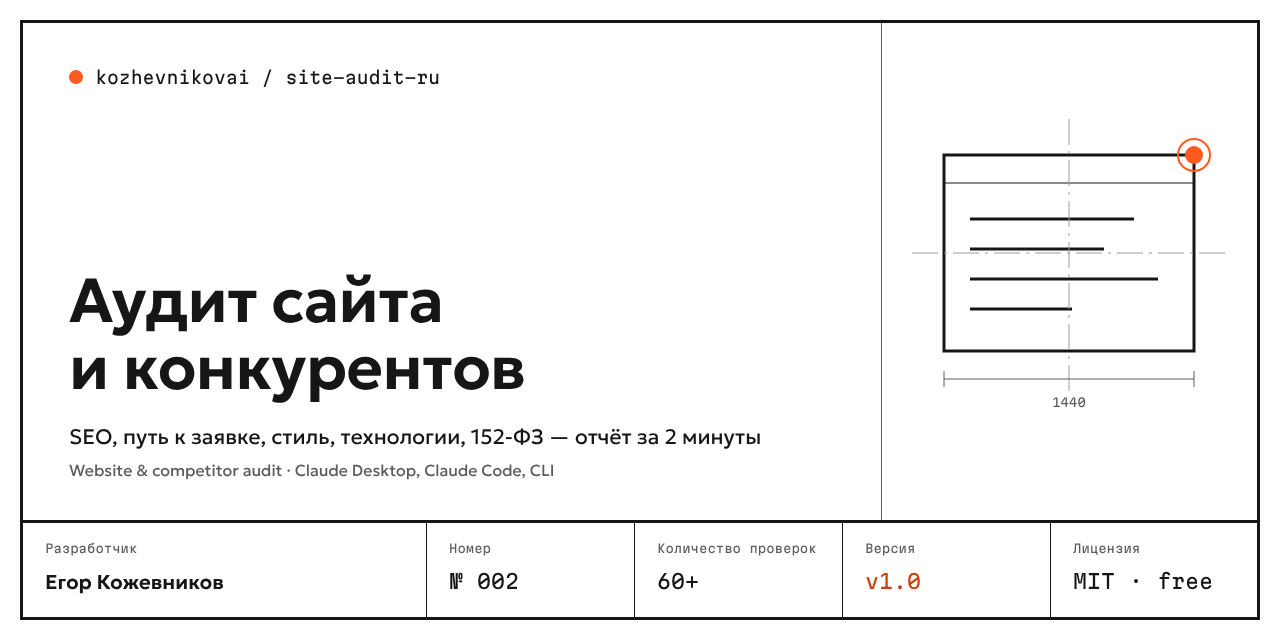
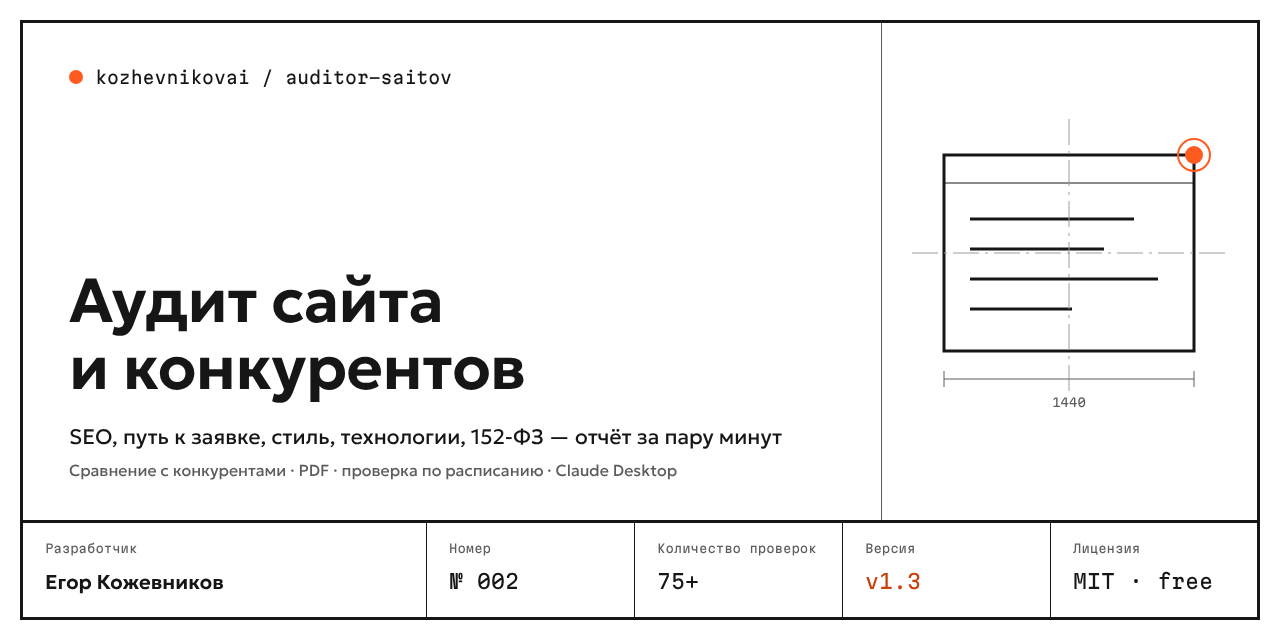
docs: README по единому шаблону, настоящий отчёт в GIF и на снимках, обложка 1.3

diff --git a/README.md b/README.md
@@ -11,24 +11,35 @@
 
 # Аудитор сайтов — аудит сайта и конкурентов
 
-Команда и пакет называются `site-audit-ru` — прежнее название продукта.
+Команда и npm-пакет называются `site-audit-ru`.
 
-Дайте адрес своего сайта и 2–4 конкурентов. Через пару минут получите отчёт: что мешает сайту приносить заявки, где конкуренты сильнее, что нарушает законы РФ и что исправить в первую очередь.
+Дайте адрес своего сайта и 2–4 конкурентов. Через пару минут придёт отчёт: что мешает сайту приносить заявки, где конкуренты сильнее, что нарушает законы РФ и что исправить в первую очередь.
 
-**Пять блоков, 75+ проверок:** SEO и скорость · структура и путь к заявке · визуальный стиль · технологии и маркетинговые сервисы · соответствие законам РФ (152-ФЗ, cookie, реквизиты, маркировка рекламы).
+<p align="center"><img src="docs/img/demo.gif" alt="Отчёт: главное, сравнение с конкурентами, подробные находки, фильтр «Только проблемы»" width="100%"></p>
 
-<p align="center"><img src="docs/img/demo.gif" alt="Запуск проверки и отчёт" width="100%"></p>
+<sub>Настоящий отчёт по трём реальным сайтам доставки цветов. Домены, названия и телефоны мы замылили.</sub>
 
-## Почему этим стоит пользоваться
+## Установка за 3 шага
+
+Нужен любой из браузеров: Google Chrome, Microsoft Edge (есть в каждой Windows), Яндекс Браузер или Chromium.
+
+1. Скачайте **`site-audit-ru.mcpb`** со страницы [последнего релиза](https://github.com/kozhevnikovai/auditor-saitov/releases/latest).
+2. Откройте файл двойным щелчком: Claude Desktop предложит установить расширение.
+3. Напишите в чате: *«Сравни мой сайт example.ru с конкурентами a.ru и b.ru и составь план на две недели»*.
+
+Claude проверит сайты, разберёт результаты как пять экспертов (SEO, UX, дизайн, техника, юрист) и даст заключение. Отчёты сохранятся в папку `site-audit` в домашней папке.
+
+## Возможности
 
 - **Сравнение с конкурентами, а не просто чек-лист.** Радар по пяти блокам, место среди сайтов и список «где конкуренты сильнее»: у них такая-то проверка в норме, а у вас — нет.
 - **Законы РФ.** Политика ПДн, согласие у каждой формы, отдельный документ согласия (с 01.09.2025), галочки по умолчанию, cookie до согласия, зарубежные сервисы (Google Fonts, GA, reCAPTCHA, YouTube), ИНН и ОГРН, erid. Обычные SEO-сервисы этого не проверяют.
 - **Сайт глазами Яндекса и посетителя.** Метрика, sitemap, микроразметка, LCP/CLS/TTFB, кнопка действия на первом экране, длина форм, кликабельный телефон, мессенджеры.
 - **Стиль конкурента в цифрах.** Палитра в HEX, шрифты, шкала размеров, контраст текста, скриншоты для компьютера и телефона.
 - **Цифры воспроизводимы.** Данные собирает детерминированный код, а не ИИ. ИИ только объясняет их и составляет план, если вы этого хотите.
+- **Новое в 1.3.** Скорость у реальных посетителей из CrUX (по вашему бесплатному ключу Google), отчёт в PDF, проверка по расписанию на вашем компьютере, выгрузка в Google Таблицу без OAuth.
 - **Локально и бесплатно.** Проверка идёт в вашем браузере (Chrome, Edge или Яндекс Браузер). Данные никуда не отправляются, отчёт сам не грузит внешние ресурсы.
 
-## Отчёт
+### Отчёт
 
 HTML-отчёт открывается в любом браузере. Его можно отправить клиенту одним файлом, распечатать или сохранить в PDF.
 
@@ -40,7 +51,7 @@ HTML-отчёт открывается в любом браузере. Его м
 - **Подробно.** Все находки по блокам с цветовыми статусами, адресами страниц и палитрой сайта.
 - **Кнопки:** «Только проблемы», «Скачать HTML», «Печать / PDF».
 
-<p align="center"><img src="docs/img/report-details.jpg" alt="Подробные находки" width="100%"></p>
+<p align="center"><img src="docs/img/report-open.jpg" alt="Подробные находки с советами" width="49%"> <img src="docs/img/report-issues.jpg" alt="Фильтр «Только проблемы»" width="49%"></p>
 
 Рядом с HTML сохраняются:
 
@@ -54,19 +65,9 @@ HTML-отчёт открывается в любом браузере. Его м
 | `report.pdf` | PDF для клиента или руководителя (`--format pdf`, печатает ваш браузер, без интернета) |
 | `audit.json` | Все данные: для повторных отчётов, сравнения во времени и интеграций |
 
-## Установка
+## Другие способы установки
 
-Нужен установленный браузер: Google Chrome, Microsoft Edge (есть в каждой Windows), Яндекс Браузер или Chromium.
-
-### 1. Claude Desktop — проще всего, без терминала
-
-1. Скачайте **`site-audit-ru.mcpb`** со страницы [последнего релиза](https://github.com/kozhevnikovai/auditor-saitov/releases/latest).
-2. Откройте файл двойным щелчком. Claude Desktop предложит установить расширение.
-3. Напишите в чате: *«Сравни мой сайт example.ru с конкурентами a.ru и b.ru и составь план на две недели»*.
-
-Claude проверит сайты, прочитает результаты как пять экспертов (SEO, UX, дизайн, техника, юрист) и даст заключение. Отчёты сохранятся в папку `site-audit` в вашей домашней папке.
-
-### 2. Claude Code — плагин с командой `/site-audit`
+### Claude Code — плагин с командой `/site-audit`
 
 ```text
 /plugin marketplace add kozhevnikovai/auditor-saitov
@@ -76,7 +77,7 @@ Claude проверит сайты, прочитает результаты ка
 
 Плагин запускает проверку и пять подагентов-экспертов параллельно, а затем собирает общее заключение.
 
-### 3. Командная строка — для регулярных проверок и автоматизации
+### Командная строка — для регулярных проверок и автоматизации
 
 Нужен Node.js 20 или новее.
 
@@ -206,7 +207,19 @@ HTTPS, robots.txt и sitemap (включая индекс sitemap), title и des
 > Это автоматические сигналы, а не юридическое заключение. Перед изменениями сверьтесь с юристом.
 </details>
 
-## Как это работает и этика обхода
+## Вопросы
+
+**Сколько длится проверка?** Около 2–5 минут на три сайта по 12 страниц. Зависит от скорости сайтов и вашего интернета.
+
+**Нужен ли ключ ИИ?** Нет. Все проверки делает код. Ключ нужен только для заключения ИИ в командной строке (`--ai`) и для данных CrUX. В Claude Desktop и Claude Code заключение пишет сам Claude.
+
+**Почему у конкурента нет оценки?** Сайт закрыт защитой от ботов (Qrator, DDoS-Guard и подобные). Мы не обходим защиту и честно помечаем: «проверка неполная».
+
+**Можно ли проверять чужие сайты?** Да, проверка видит только то, что видит любой посетитель. Robots.txt соблюдается, обходится не больше 30 страниц.
+
+**Это юридическое заключение?** Нет. Раздел «Законы РФ» показывает автоматические сигналы. Перед изменениями сверьтесь с юристом.
+
+## Безопасность и этика
 
 - Сборщик открывает страницы в headless-режиме вашего браузера через Playwright, ждёт, пока страница перестанет перезагружаться (JS-проверки), прокручивает главную, чтобы догрузились ленивые скрипты.
 - Соблюдает `robots.txt`, обходит не больше 30 страниц, пропускает служебные разделы (вход, корзина, кабинет, поиск, фильтры), представляется в User-Agent как `site-audit-ru` со ссылкой на проект.
@@ -256,7 +269,7 @@ node dist/cli.js test-site.ru --open
 
 - [Протоколист](https://github.com/kozhevnikovai/protokolist) — запись встречи → протокол, локально
 - [Тендерный помощник](https://github.com/kozhevnikovai/tender-pomoshnik) — разбор госзакупок 44-ФЗ и 223-ФЗ с цитатами
-- [Бизнес-навыки](https://github.com/kozhevnikovai/biznes-navyki) — 10 навыков для Claude: КП, отзывы, вакансии, регламенты
+- [Бизнес-навыки](https://github.com/kozhevnikovai/biznes-navyki) — 12 навыков для Claude: КП, отзывы, претензии, вакансии, регламенты
 
 Об уязвимостях — приватно, см. [SECURITY.md](SECURITY.md).
 

diff --git a/README.en.md b/README.en.md
@@ -2,54 +2,72 @@
 
 <p align="center"><a href="README.md">Русский</a> · <b>English</b></p>
 
-# Auditor Saitov (Аудитор сайтов) — website & competitor audit (Russia-focused)
+# Auditor Saitov — website & competitor audit (Russia-focused)
 
-The command and package are still called `site-audit-ru`, the former product name.
+The command and npm package are called `site-audit-ru`.
 
-Give it your site and 2–4 competitors — in a couple of minutes you get a report: what keeps the site from generating leads, where competitors are stronger, what breaks Russian law, and what to fix first.
+Give it your site and 2–4 competitors. In a couple of minutes you get a report: what keeps the site from generating leads, where competitors are stronger, what breaks Russian law, and what to fix first.
 
-**Five blocks, 75+ checks:** SEO & speed · structure & conversion path · visual style · tech & marketing stack · Russian legal compliance (152-FZ personal data law, cookies, seller requisites, ad labelling).
+<p align="center"><img src="docs/img/demo.gif" alt="Report: summary, competitor comparison, detailed findings, Issues only filter" width="100%"></p>
 
-<p align="center"><img src="docs/img/demo.gif" alt="Demo" width="100%"></p>
+<sub>A real report on three real flower-delivery sites. Domains, names and phone numbers are blurred.</sub>
 
-## Highlights
+## Install in 3 steps
+
+Requires Google Chrome, Microsoft Edge (built into Windows), Yandex Browser or Chromium.
+
+1. Download **`site-audit-ru.mcpb`** from the [latest release](https://github.com/kozhevnikovai/auditor-saitov/releases/latest).
+2. Double-click it: Claude Desktop offers to install the extension.
+3. Ask Claude: *“Compare my site example.ru with competitors a.ru and b.ru and make a two-week plan”*.
+
+## Features
 
 - **Competitor comparison**, not just a checklist: radar chart, ranking and “where competitors are stronger”.
 - **Russian law checks** most SEO tools skip: privacy policy, consent at every form (separate consent document since 1 Sep 2025), pre-checked boxes, cookies before consent, foreign services (cross-border data transfer), INN/OGRN, `erid` ad labels.
 - **Yandex-first SEO and UX:** Yandex Metrica, sitemap, schema.org, LCP/CLS/TTFB, above-the-fold CTA, form length, click-to-call, messengers.
 - **Competitor style in numbers:** HEX palette, fonts, type scale, WCAG contrast, desktop & mobile screenshots.
 - **Deterministic data, optional AI.** A crawler collects reproducible facts; AI only interprets them.
+- **New in 1.3.** Real-user speed from CrUX (with your free Google key), PDF report, scheduled checks on your own computer, export to Google Sheets without OAuth.
 - **Local and free.** Runs in your own Chrome, Edge or Yandex Browser; nothing is sent anywhere; the report loads no external resources.
 
-## Output
+### Output
 
-`report.html` (report with key panel, radar, action plan, filters, download and print), `report.md`, `findings.csv` / `summary.csv` (Excel-ready: UTF-8 BOM, `;`), `audit.json`.
+`report.html` (report with key panel, radar, action plan, filters, download and print), `report.pdf`, `report.xlsx`, `report.md`, `findings.csv` / `summary.csv` (Excel-ready: UTF-8 BOM, `;`), `audit.json`.
 
-<p align="center"><img src="docs/img/report-compare.jpg" alt="Report" width="100%"></p>
+<p align="center"><img src="docs/img/report-compare.jpg" alt="Comparison" width="100%"></p>
 
-## Install
+<p align="center"><img src="docs/img/report-open.jpg" alt="Findings with advice" width="49%"> <img src="docs/img/report-issues.jpg" alt="Issues only" width="49%"></p>
 
-Requires Google Chrome, Microsoft Edge, Yandex Browser or Chromium.
+## Other ways to install
 
-1. **Claude Desktop (no terminal):** download `site-audit-ru.mcpb` from the [latest release](https://github.com/kozhevnikovai/auditor-saitov/releases/latest), double-click, then ask Claude: *“Compare my site example.ru with a.ru and b.ru”*.
-2. **Claude Code plugin:**
+- **Claude Code plugin:**
    ```text
    /plugin marketplace add kozhevnikovai/auditor-saitov
    /plugin install site-audit-ru@kozhevnikovai
    /site-audit example.ru a.ru b.ru
    ```
-3. **CLI (Node.js 20+):**
+- **CLI (Node.js 20+):**
    ```bash
    npm install -g https://github.com/kozhevnikovai/auditor-saitov/releases/latest/download/site-audit-ru.tgz
    site-audit-ru example.ru a.ru b.ru --open
    ```
-4. **Any MCP client** (Cursor, Codex, Windsurf): command `npx -y <tarball-url> mcp`; tools `audit_sites`, `get_details`; prompt `site_audit_expert`.
+- **Any MCP client** (Cursor, Codex, Windsurf): command `npx -y <tarball-url> mcp`; tools `audit_sites`, `get_details`; prompt `site_audit_expert`.
 
 Key CLI options: `-p` max pages (30), `-f html,md,csv,xlsx,json,pdf`, `--sheet <Apps Script URL>` (append results to your Google Sheet without OAuth, see [docs/google-sheets.gs](docs/google-sheets.gs)), `--crux-key <key>` (real-user Core Web Vitals from Chrome UX Report), `--open`, `--compare-last` (monitoring: what got fixed / appeared), `--webhook <url>` (n8n, Make, Zapier), `--ai` (with `ANTHROPIC_API_KEY` or any OpenAI-compatible `OPENAI_API_KEY` + `OPENAI_BASE_URL`).
 
 Scheduled checks without a server: `site-audit-ru schedule add example.ru a.ru --every week --at 09:00` creates a Windows Task Scheduler task or a cron entry (macOS, Linux); each run is compared with the previous one. `schedule list`, `schedule remove <site>`.
 
-## Ethics
+## FAQ
+
+**How long does it take?** About 2–5 minutes for three sites of 12 pages each, depending on the sites and your connection.
+
+**Do I need an AI key?** No. All checks are done by code. A key is only needed for the AI conclusion in the CLI (`--ai`) and for CrUX data. In Claude Desktop and Claude Code, Claude writes the conclusion itself.
+
+**Why does a competitor have no score?** The site is behind bot protection (Qrator, DDoS-Guard and similar). We do not bypass it and mark the check as incomplete.
+
+**Is this legal advice?** No. The Russian law section shows automated signals. Check with a lawyer before making changes.
+
+## Security and ethics
 
 Respects `robots.txt`, max 30 pages, skips login/cart/account/search pages, identifies itself in the User-Agent, collects only public data. Bot-protected sites are marked as incomplete and are not scored. Legal findings are automated signals, not legal advice.
 
